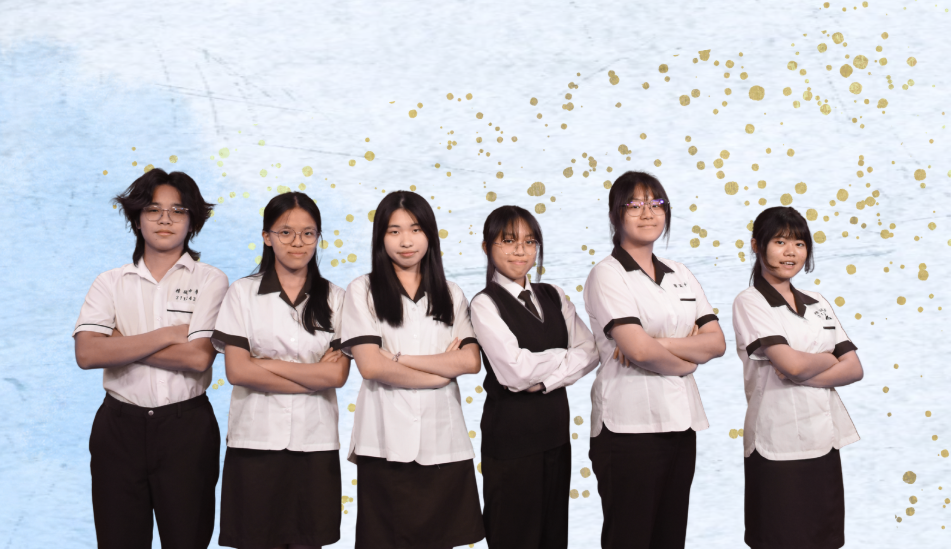
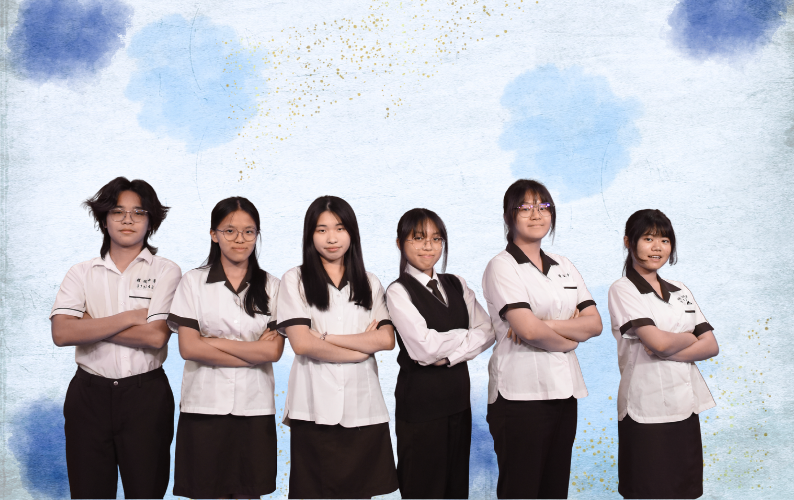
photos

diff --git a/member.html b/member.html
@@ -102,7 +102,7 @@
                 </div>
             </div>
             <div class="member-image-wrapper">
-                <img src="members/zhao.png" alt="召組合照" class="member-photo">
+                <img src="members/zhaozu.png" alt="召組合照" class="member-photo">
             </div>
         </section>
 
